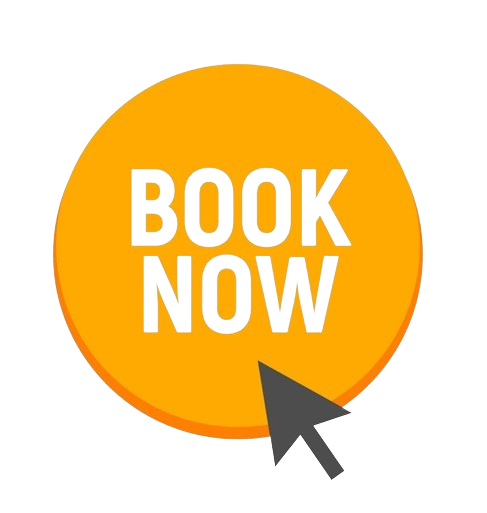
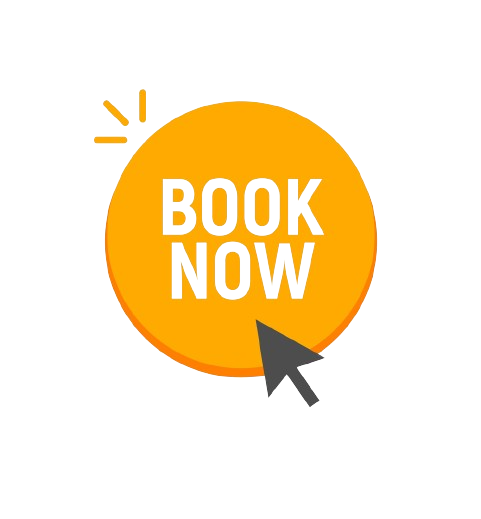
aaaaaaaaaaaaa

diff --git a/frontend/src/pages/SinglePackage.js b/frontend/src/pages/SinglePackage.js
@@ -11,6 +11,7 @@ import { Link } from 'react-router-dom';
 import Navbar from '../components/navbar//Navbar';
 import Footer from '../components/Footer/Footer';
 import PopUpPay from '../components/popUpPay/PopUpPay'
+import bookImg from '../assets/images/booking.png'
 
 export default function SinglePackage() {
     // useParams(): It is used to access the parameters from the URL in a React component.
@@ -128,7 +129,7 @@ export default function SinglePackage() {
               <div className={Styles.singlePackage_BtnDiv}>
         
 
-                <button className={Styles.singlePackage_button} onClick={handleBook}><FaBookmark className={Styles.bookIcon} /></button>
+                <button className={Styles.singlePackage_button} onClick={handleBook}><img src={bookImg} alt="booking" /></button>
                 {packageItem.discount ?
                     <PopUpPay isOpen={isPopupOpen} price={Math.ceil(packageItem.pricePerOne - (packageItem.pricePerOne * packageItem.discount) / 100)} packageId={packageItem._id}  companyId={packageItem.companyId} onClose={() => setIsPopupOpen(false)} />
                     :

diff --git a/frontend/src/assets/css/SinglePackage.module.css b/frontend/src/assets/css/SinglePackage.module.css
@@ -129,14 +129,12 @@
     display: flex;
     justify-content: center;
     align-items: center;
-    border-radius: 25px;
-    border: 1px solid var(--danger);
-    background-color: var(--danger);
-    cursor: pointer;
-    /*background-image: url('../images/booking.png');
-    background-repeat: no-repeat;
-    background-size: cover;
-    object-fit: fill;*/
+    border: none;
+    background-color: transparent;
+}
+.singlePackage_button img {
+    width: 90px;
+    height: 90px;
 }
 
 .bookIcon {
@@ -309,14 +307,12 @@ p.companyLink {
 
 /* Hotel */
 .singlePackage_container_3 {
-    height: 450px;
     margin-bottom: 20px;
 }
 
 .hotel_Container {
     margin: 50px auto;
     width: 30%;
-    height: 360px;
     padding-bottom: 50px;
 }
 
@@ -539,10 +535,6 @@ p.companyLink {
         grid-template-columns: 100%;
     }
     
-    .twoHotels {
-        margin-bottom: 200px;
-    }
-
     .hotel_Container,
     .twoHotels.hotel_Container,
     .threeHotels.hotel_Container,
